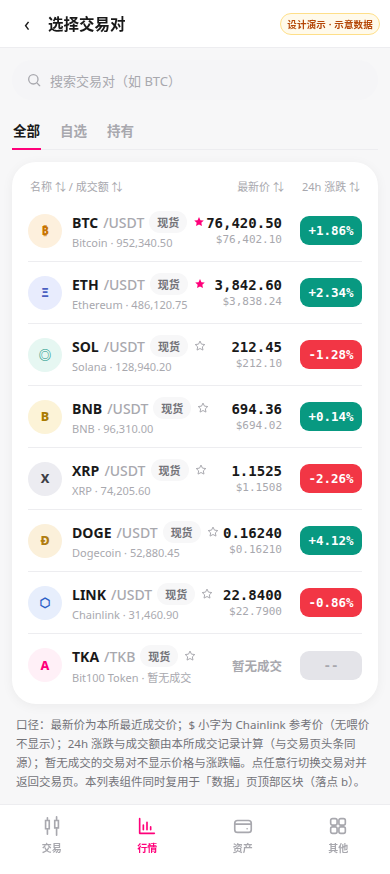
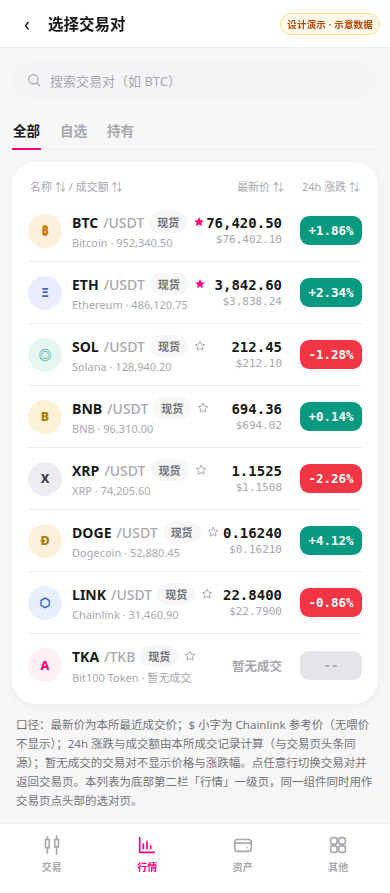
docs(ui): 行情演示底部小字订正为四栏定版口径(去已取消的数据页落点)

diff --git a/docs/round31-assets/demo-markets.html b/docs/round31-assets/demo-markets.html
@@ -126,7 +126,7 @@
       </a>
     </div>
 
-    <p class="hint" style="font-size:11.5px;color:var(--b100-text-2);line-height:1.65;padding:0 4px">口径：最新价为本所最近成交价；$ 小字为 Chainlink 参考价（无喂价不显示）；24h 涨跌与成交额由本所成交记录计算（与交易页头条同源）；暂无成交的交易对不显示价格与涨跌幅。点任意行切换交易对并返回交易页。本列表组件同时复用于「数据」页顶部区块（落点 b）。</p>
+    <p class="hint" style="font-size:11.5px;color:var(--b100-text-2);line-height:1.65;padding:0 4px">口径：最新价为本所最近成交价；$ 小字为 Chainlink 参考价（无喂价不显示）；24h 涨跌与成交额由本所成交记录计算（与交易页头条同源）；暂无成交的交易对不显示价格与涨跌幅。点任意行切换交易对并返回交易页。本列表为底部第二栏「行情」一级页，同一组件同时用作交易页点头部的选对页。</p>
 
   </div>
 
